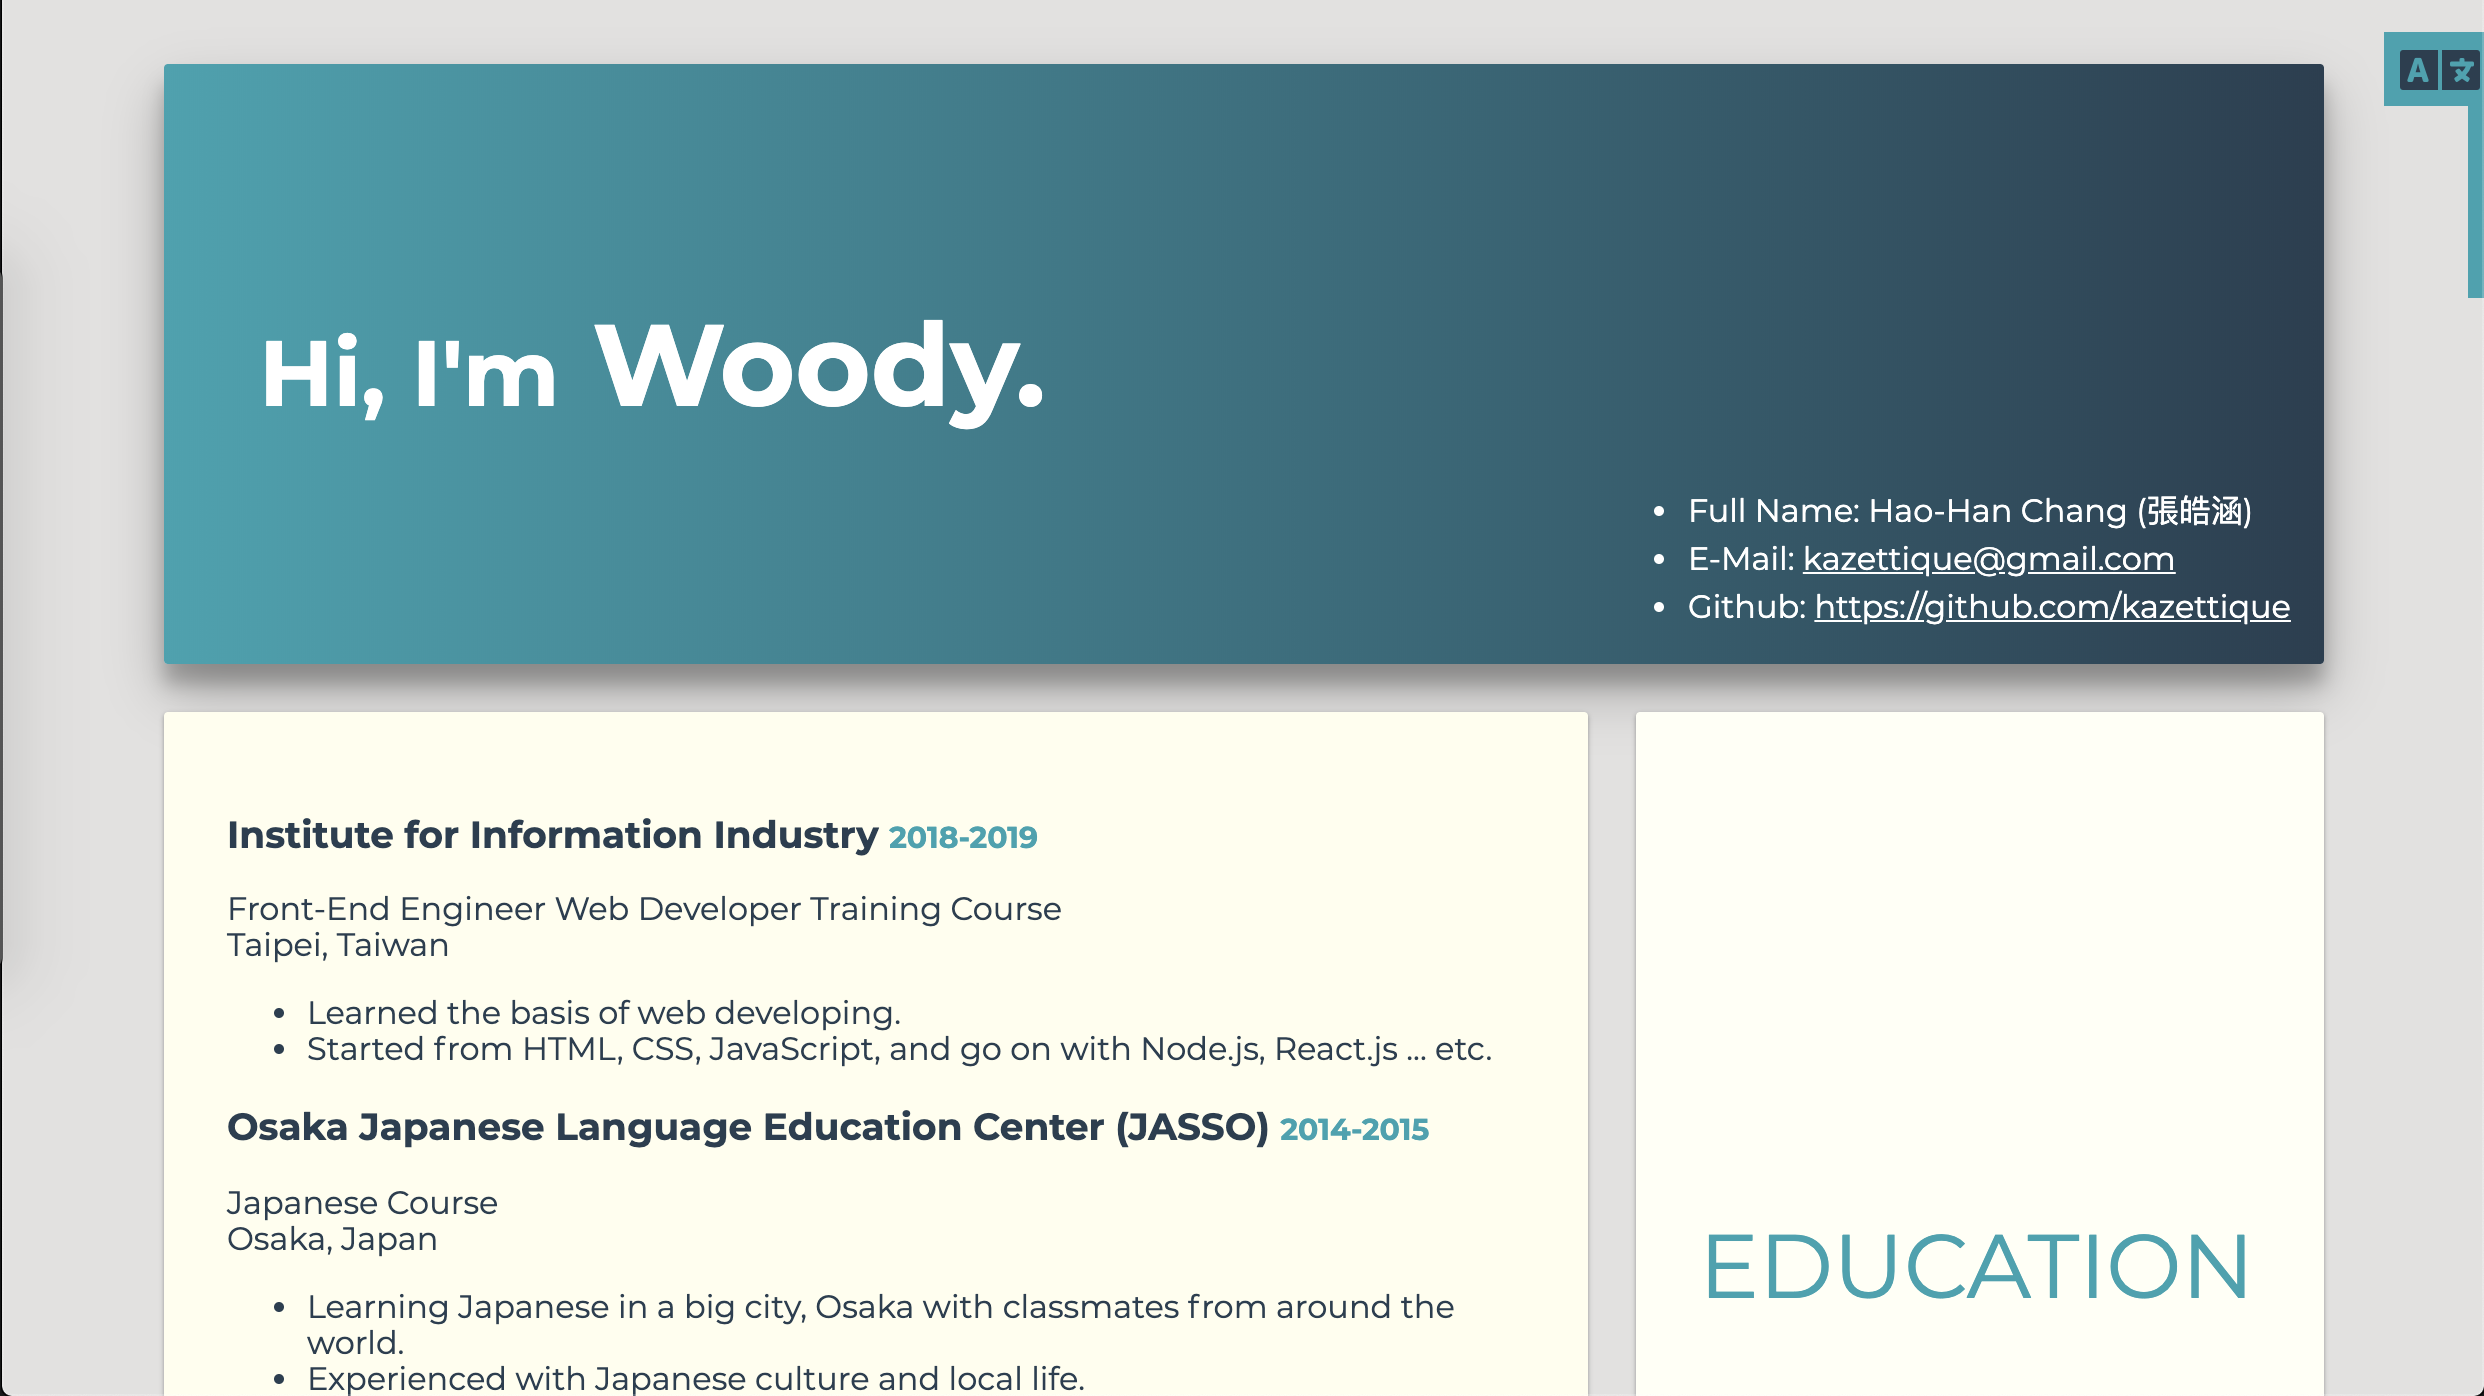
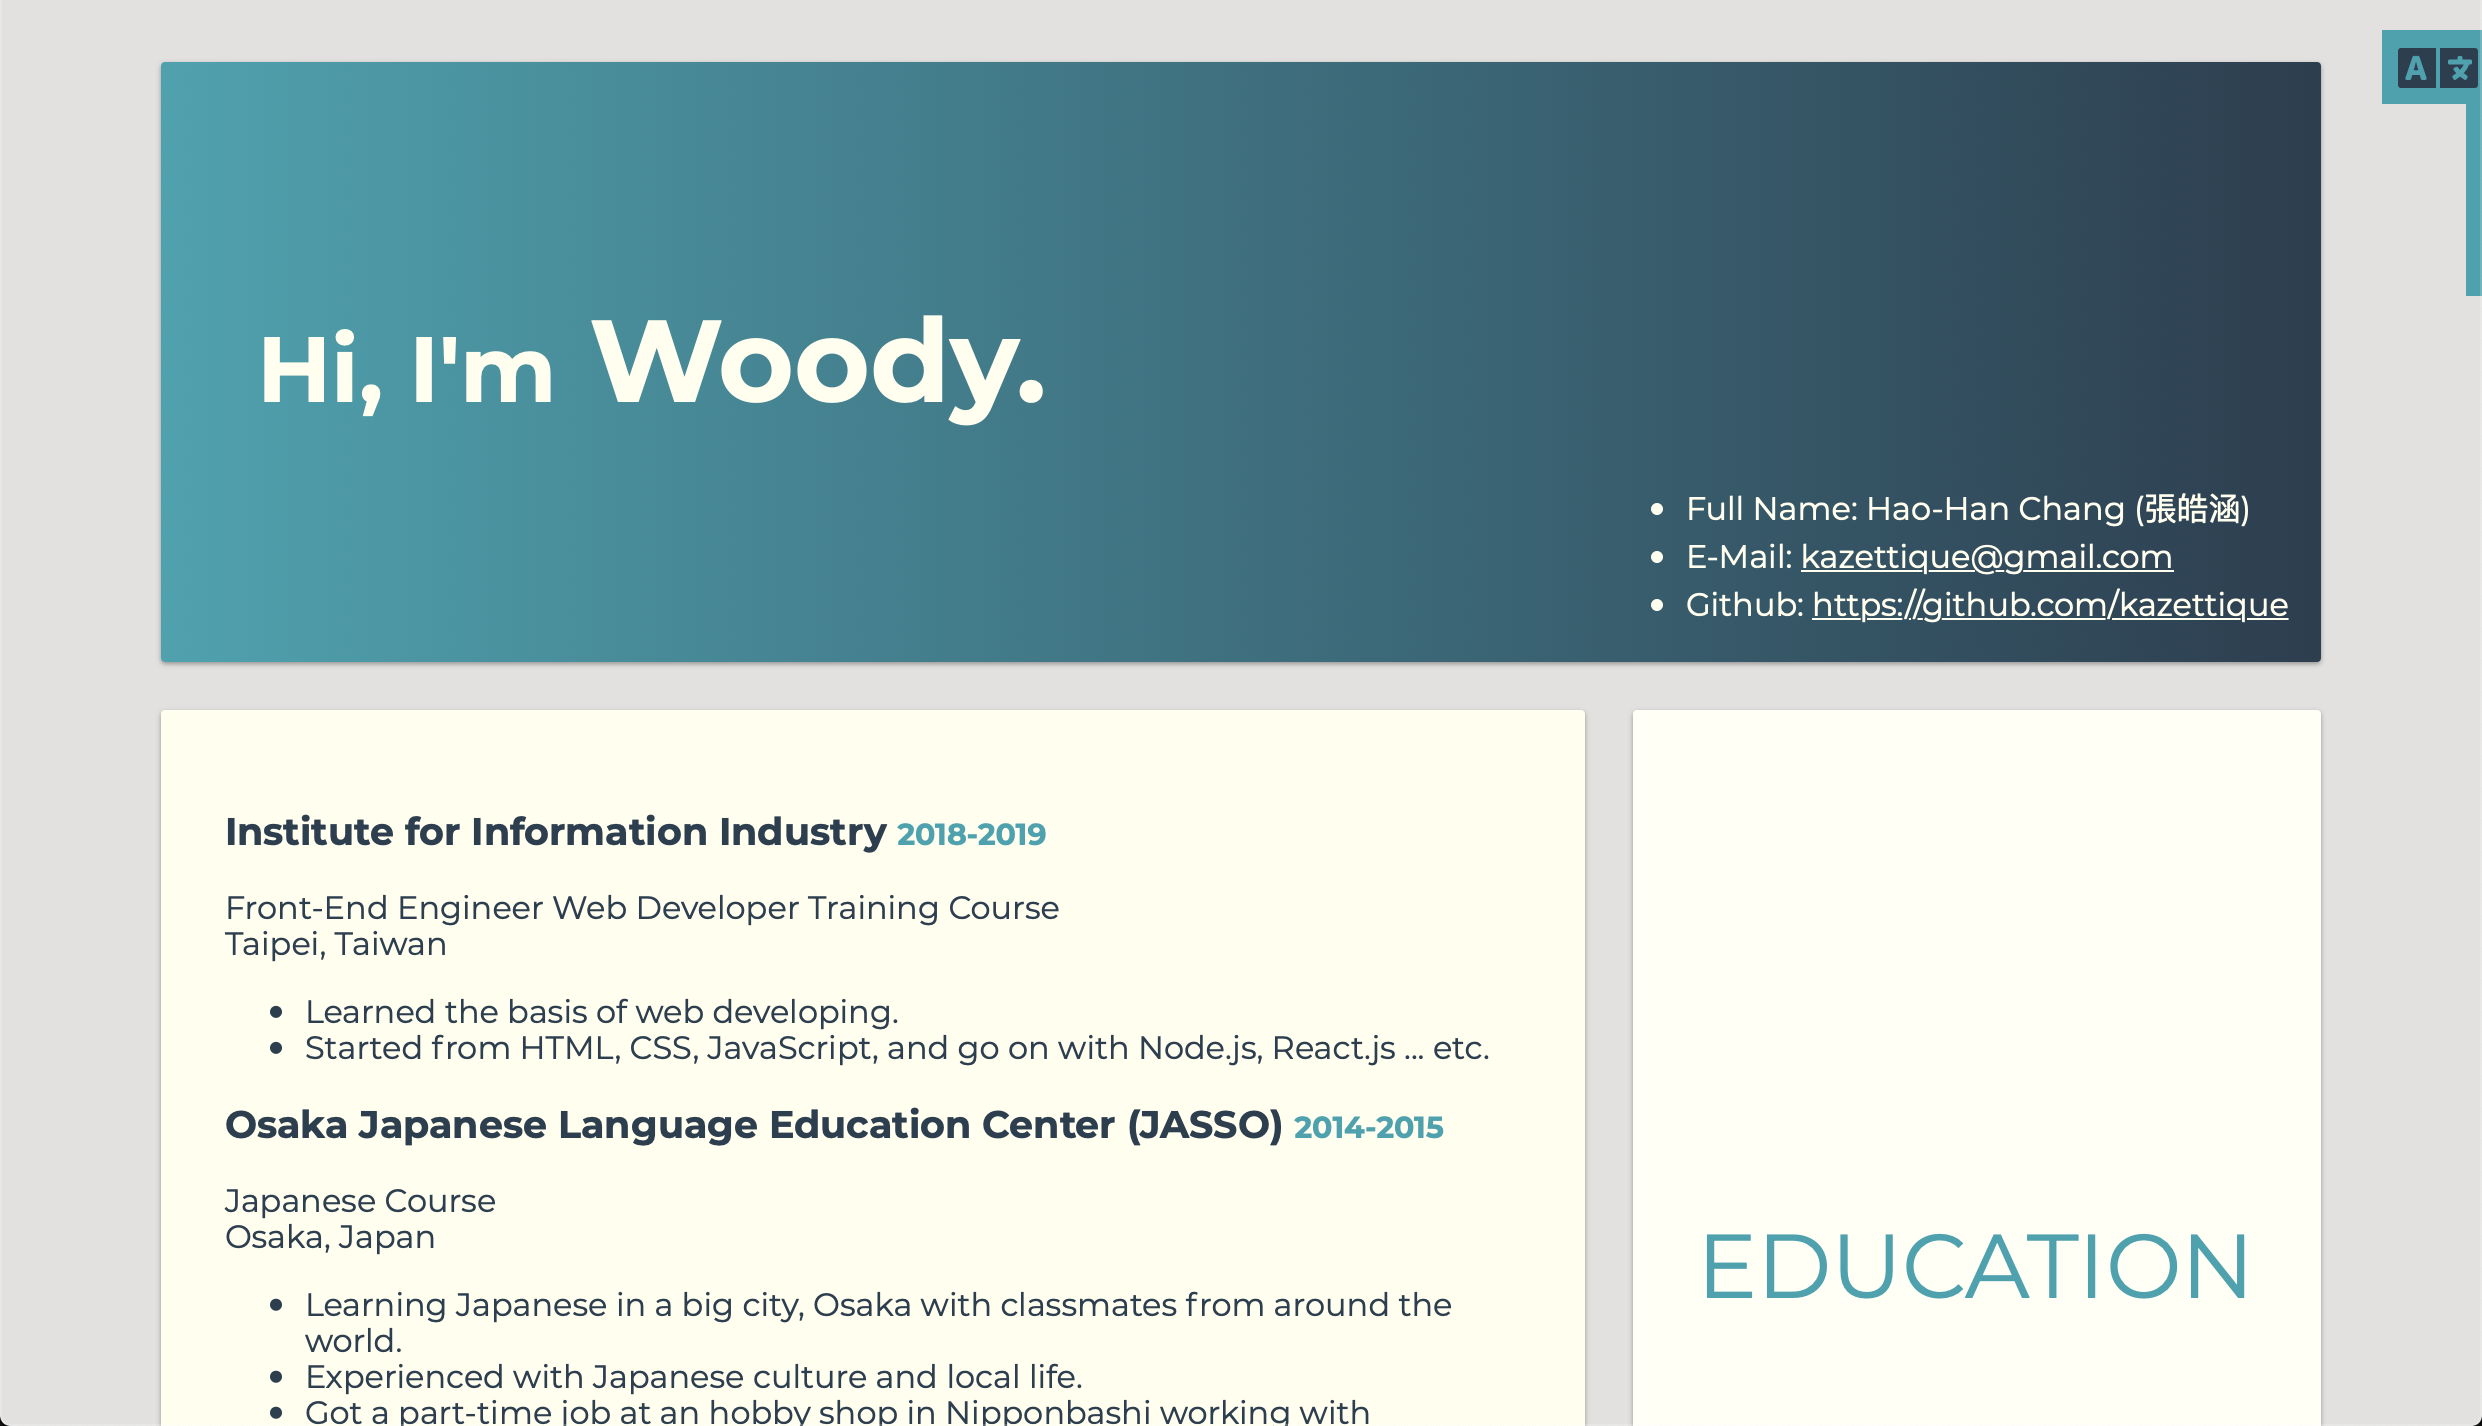
Done with my projects block design

diff --git a/doc/resume.html b/doc/resume.html
@@ -19,12 +19,12 @@
   <!-- https://konpa.github.io/devicon/ -->
   <!-- Google Fonts -->
   <link
-    href="https://fonts.googleapis.com/css?family=M+PLUS+1p:400,500,700|M+PLUS+Rounded+1c:400,500,700,800|Montserrat:400,500,600,700|Noto+Sans+TC:400,500,700&display=swap"
+    href="https://fonts.googleapis.com/css?family=M+PLUS+1p:300,400,500,700|M+PLUS+Rounded+1c:300,400,500,700,800|Montserrat:300,400,500,600,700|Noto+Sans+TC:300,400,500,700&display=swap"
     rel="stylesheet">
 </head>
 
 <body>
-  <!-- locale-menu -->
+  <!-- Locale menu -->
   <div class="locale-menu transition">
     <div class="locale-icon transition"><i class="fas fa-language fa-2x"></i></div>
     <div class="locale-items">
@@ -34,7 +34,7 @@
     </div>
   </div>
 
-  <!-- progress bar -->
+  <!-- Progress bar -->
   <div class="header">
     <div class="progress-container">
       <div class="progress-bar"></div>
@@ -140,20 +140,40 @@
         <div class="project-item">
           <a href="https://kazettique.github.io/doc/resume.html" target="_blank">
             <div class="content-overlay"></div>
-            <img class="content-img" src="../img/my-resume.png"></dii>
+            <img class="content-img" src="../img/my-resume.png">
             <div class="content-details fadeIn-bottom">
-              <h3 class="content-title" id="">My Resume</h3>
-              <p class="content-text" id="">This is a short description</p>
+              <p class="content-title" id="prj-title1"></p>
+              <p class="content-text" id="prj-comment1"></p>
             </div>
           </a>
         </div>
         <div class="project-item">
           <a href="http://thewheelnew.s3-website-ap-southeast-1.amazonaws.com/" target="_blank">
             <div class="content-overlay"></div>
-            <img class="content-img" src="../img/the-wheel.png"></dii>
+            <img class="content-img" src="../img/the-wheel.png">
             <div class="content-details fadeIn-bottom">
-              <h3 class="content-title" id="">The Wheel</h3>
-              <p class="content-text" id="">This is a short description</p>
+              <p class="content-title" id="prj-title2"></h>
+              <p class="content-text" id="prj-comment2"></p>
+            </div>
+          </a>
+        </div>
+        <div class="project-item">
+          <a href="#" target="_blank">
+            <div class="content-overlay"></div>
+            <img class="content-img" src="https://images.unsplash.com/photo-1496080174650-637e3f22fa03?ixlib=rb-1.2.1&ixid=eyJhcHBfaWQiOjEyMDd9&auto=format&fit=crop&w=1606&q=80">
+            <div class="content-details fadeIn-bottom">
+              <p class="content-title" id="">Campside</p>
+              <p class="content-text" id="">Embrace the natural through camping</p>
+            </div>
+          </a>
+        </div>
+        <div class="project-item">
+          <a href="#" target="_blank">
+            <div class="content-overlay"></div>
+            <img class="content-img" src="https://images.unsplash.com/photo-1500520198921-6d4704f98092?ixlib=rb-1.2.1&ixid=eyJhcHBfaWQiOjEyMDd9&auto=format&fit=crop&w=1525&q=80">
+            <div class="content-details fadeIn-bottom">
+              <p class="content-title" id="">Enjoy the beach</p>
+              <p class="content-text" id="">Surfing all day long!</p>
             </div>
           </a>
         </div>
@@ -292,7 +312,7 @@
         <div class="lang-list">
           <b id="mandarin"></b>
         </div>
-        <div class="lang-level" id="madarin-level"></div>
+        <div class="lang-level" id="mandarin-level"></div>
       </div>
       <div class="lang">
         <div class="lang-list">
@@ -302,7 +322,7 @@
         <div class="cert-list">
           <b id="english-cert"></b>
         </div>
-        <div class="cert-score"></div>
+        <div class="english-grade"></div>
       </div>
       <div class="lang">
         <div class="lang-list">

diff --git a/css/resume.css b/css/resume.css
@@ -179,7 +179,7 @@ b {
 }
 
 .contact {
-  color: #fff;
+  color: #fffeee;
   font-size: 1rem;
   line-height: 1.5rem;
 
@@ -189,7 +189,7 @@ b {
 }
 
 a {
-  color: #fff;
+  color: #fffeee;
 }
 
 a:hover {
@@ -273,7 +273,7 @@ a:hover {
     #4ca1af,
     #2c3e50
   ); /* W3C, IE 10+/ Edge, Firefox 16+, Chrome 26+, Opera 12+, Safari 7+ */
-  color: #fff;
+  color: #fffeee;
   grid-area: footer;
   text-align: center;
   line-height: 3rem;
@@ -495,31 +495,30 @@ a:hover {
   width: 100%;
   height: 100%;
   /* background: #ccc; */
-  /* border: 1px solid red; */
 
   display: grid;
   grid-template-columns: 1fr 1fr;
   grid-auto-rows: auto;
-  gap: 1rem;
+  gap: 2rem;
 }
 
 .project-item {
   width: 100%;
   height: 177px;
-  background: gray;
+  background: #4ca1af;
   position: relative;
   overflow: hidden;
-  object-fit: cover;
+  object-fit: fill;
   box-shadow: 0 1px 3px rgba(0, 0, 0, 0.12), 0 1px 2px rgba(0, 0, 0, 0.24);
 }
 
 .project-item img {
-  /* height: 100%; */
+  height: auto;
   width: 100%;
 }
 
 .project-item .content-overlay {
-  background: rgba(0, 0, 0, 0.7);
+  background: rgba(0, 0, 0, 0.85);
   position: absolute;
   height: 100%;
   width: 100%;
@@ -527,14 +526,14 @@ a:hover {
   top: 0;
   bottom: 0;
   right: 0;
-  opacity: 0;
+  opacity: 1;
   -webkit-transition: all 0.4s ease-in-out 0s;
   -moz-transition: all 0.4s ease-in-out 0s;
   transition: all 0.4s ease-in-out 0s;
 }
 
 .project-item:hover .content-overlay {
-  opacity: 1;
+  opacity: 0;
 }
 
 .content-image {
@@ -546,10 +545,10 @@ a:hover {
   text-align: center;
   padding-left: 1em;
   padding-right: 1em;
-  width: 100%;
-  top: 50%;
+  width: 85%;
+  top: 80%;
   left: 50%;
-  opacity: 0;
+  opacity: 1;
   -webkit-transform: translate(-50%, -50%);
   -moz-transform: translate(-50%, -50%);
   transform: translate(-50%, -50%);
@@ -559,24 +558,27 @@ a:hover {
 }
 
 .project-item:hover .content-details {
-  top: 50%;
+  top: 80%;
   left: 50%;
-  opacity: 1;
+  opacity: 0;
 }
 
-.content-details h3 {
-  color: #fff;
-  font-weight: 500;
+.content-details p:nth-child(1) {
+  color: #fffeee;
+  font-weight: 400;
+  font-size: 1.3rem;
   letter-spacing: 0.15em;
   margin-bottom: 0.5em;
   text-transform: uppercase;
 }
 
-.content-details p {
-  color: #fff;
-  font-size: 0.8em;
+.content-details p:nth-child(2) {
+  color: #fffeee;
+  font-size: 1rem;
+  font-weight: 300;
+  line-height: 1.5rem;
 }
 
 .fadeIn-bottom {
-  top: 80%;
+  top: 50%;
 }

diff --git a/js/global.js b/js/global.js
@@ -5,7 +5,7 @@ jQuery(function($) {
     },
   })
 
-  // Translate all words
+  // Translate all words by getting all IDs
   const do_translate = function() {
     let x = document.querySelectorAll('*[id]:not([id=""])')
     for (let i = 0; i < x.length; i++) {
@@ -22,6 +22,7 @@ jQuery(function($) {
       ja: `${window.location.origin}/i18n/ja.json`,
     })
     .done(function() {
+      // Dynamic language conversion
       $('.locale-item').on('click', function(e) {
         e.preventDefault()
         $.i18n().locale = $(this).data('locale')
